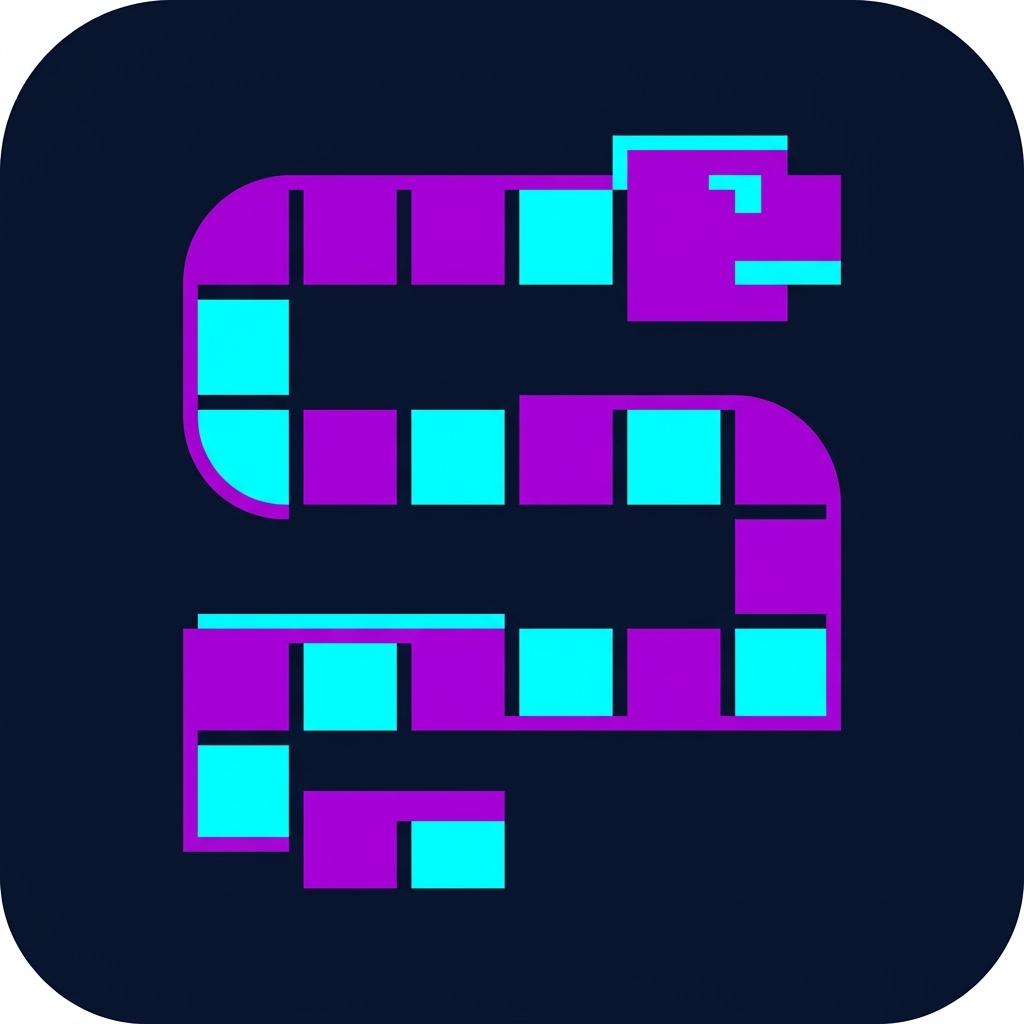
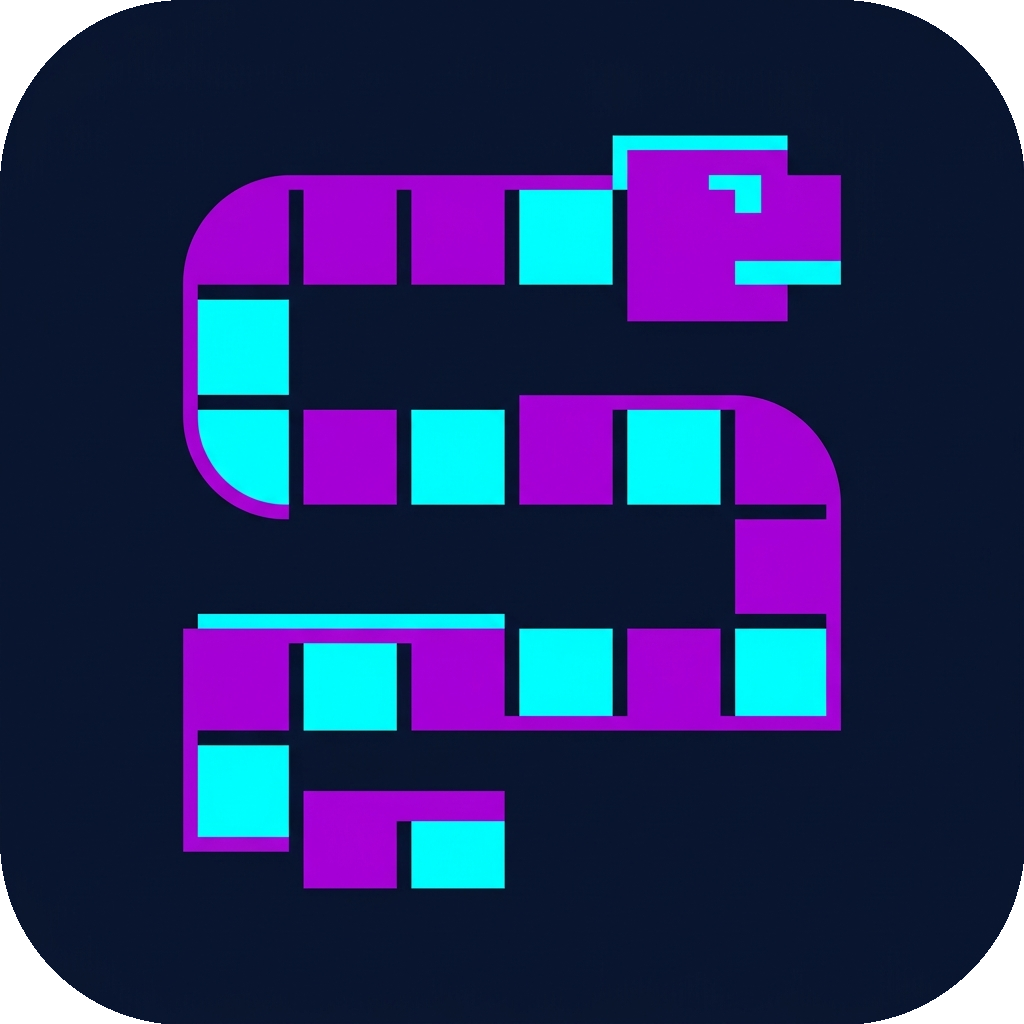
style(branding): apply uniform rounded white corners v0.8.13

diff --git a/CHANGELOG.md b/CHANGELOG.md
@@ -5,6 +5,12 @@ All notable changes to this project will be documented in this file.
 The format is based on [Keep a Changelog](https://keepachangelog.com/en/1.1.0/),
 and this project adheres to [Semantic Versioning](https://semver.org/spec/v2.0.0.html).
 
+## [0.8.13] - 2026-07-19
+
+### Changed
+- **Uniform Rounded Icon**: Applied a rounded corner mask with white-filled borders to make all application icons perfectly uniform.
+
+
 ## [0.8.12] - 2026-07-19
 
 ### Changed